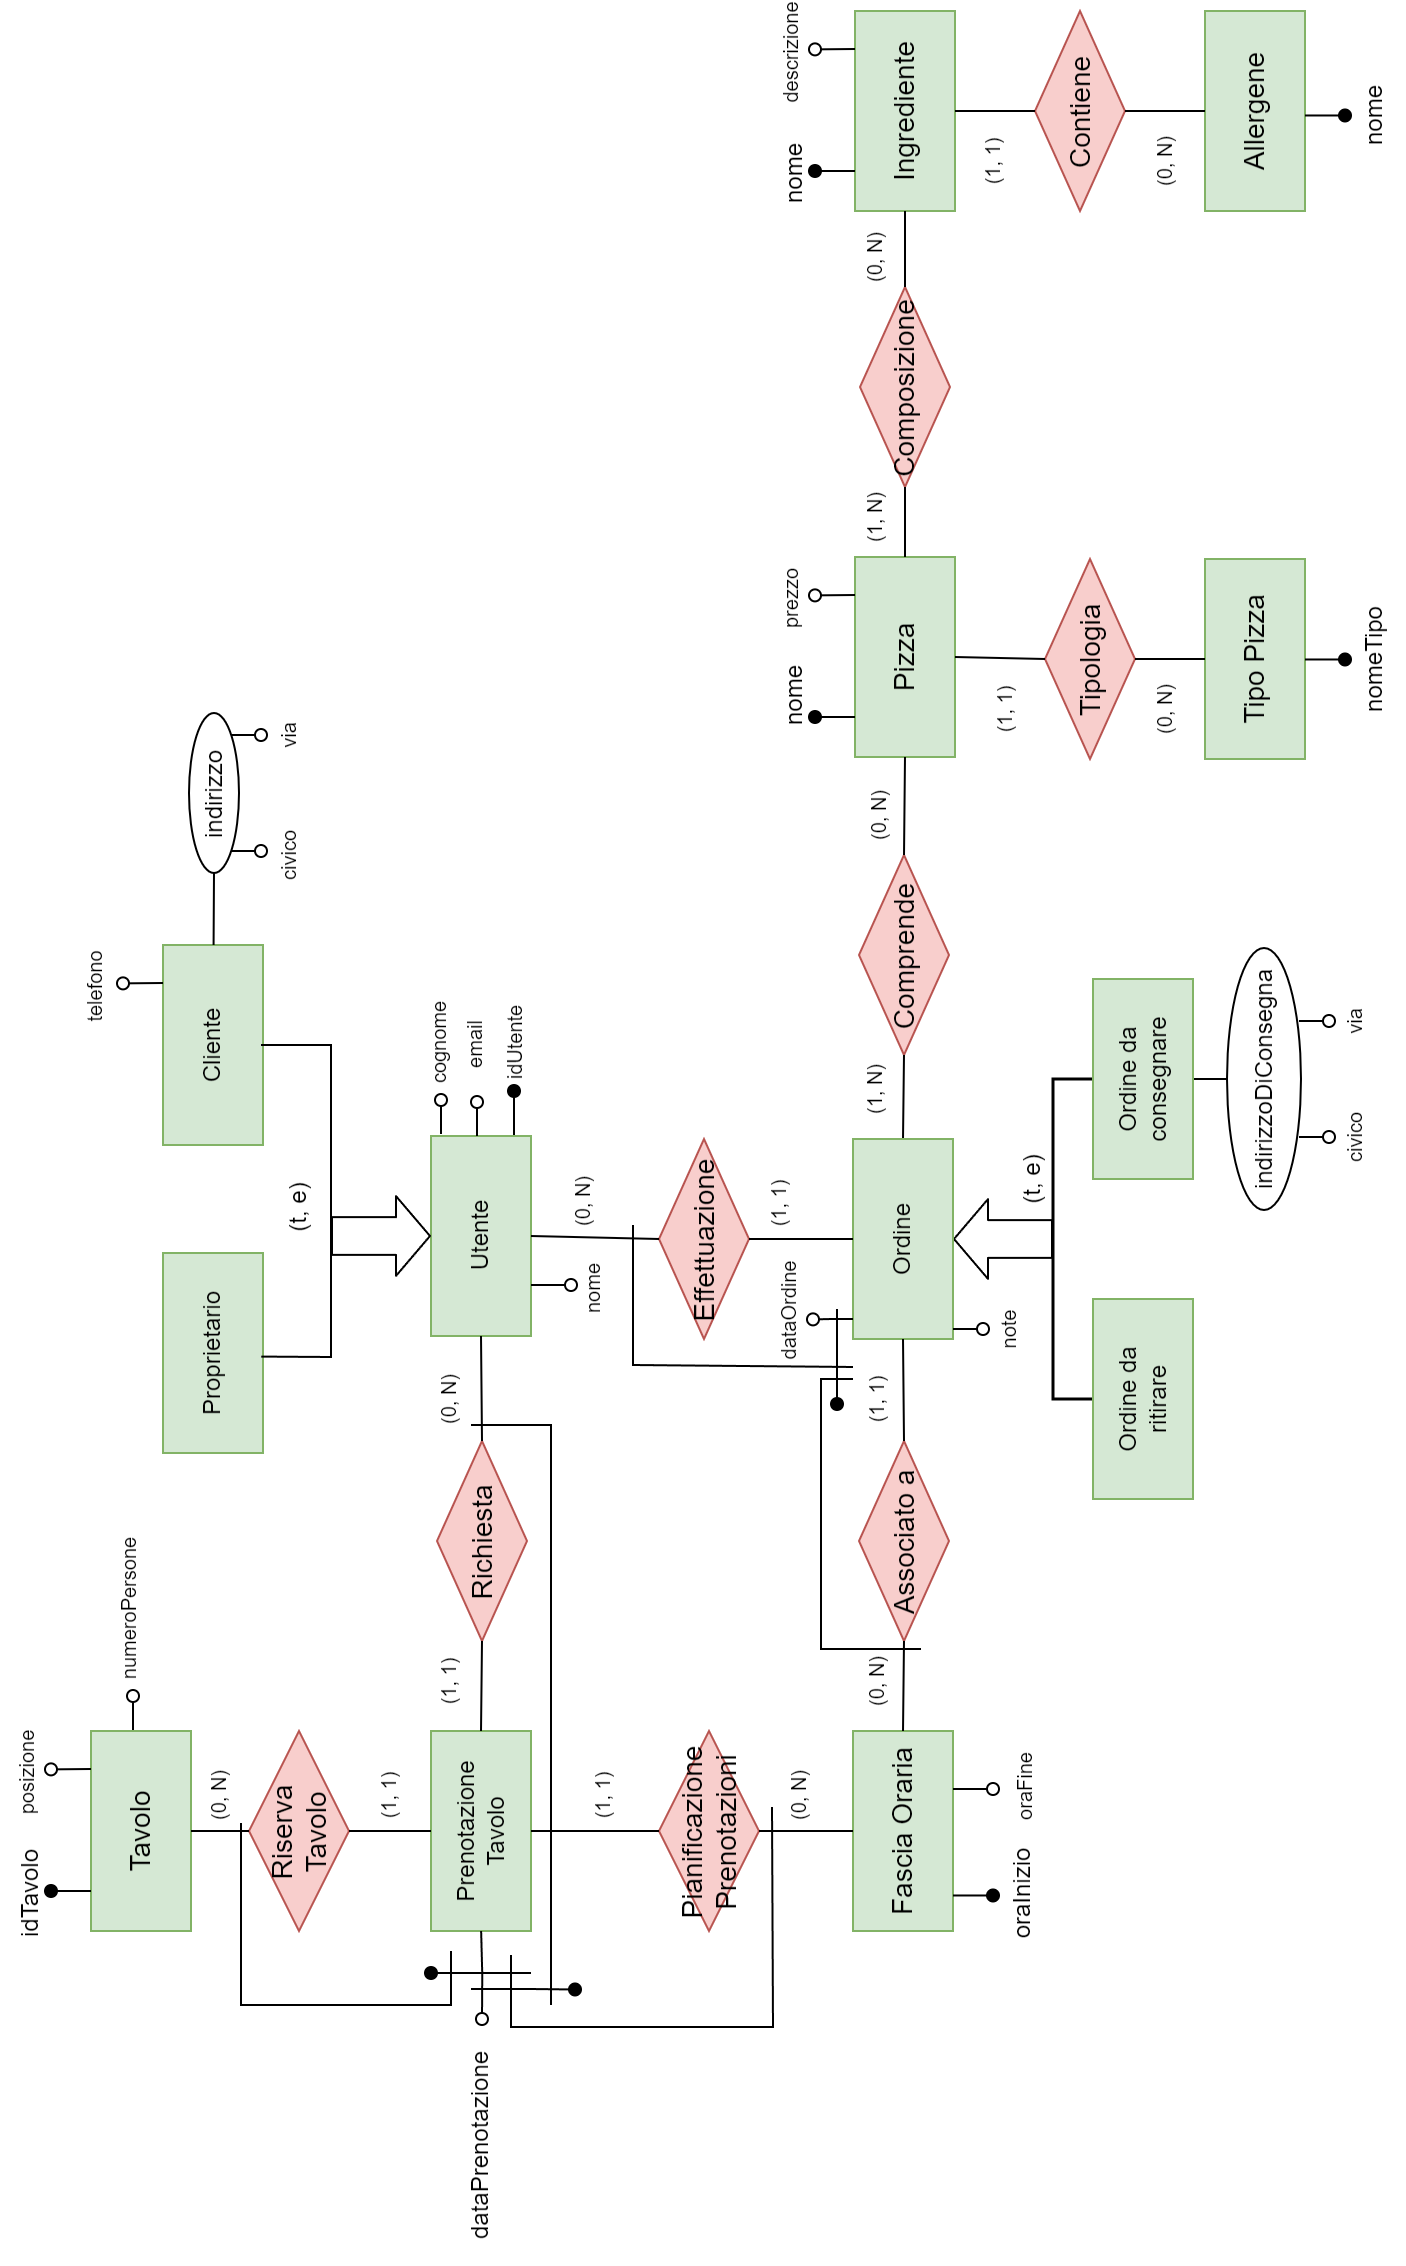
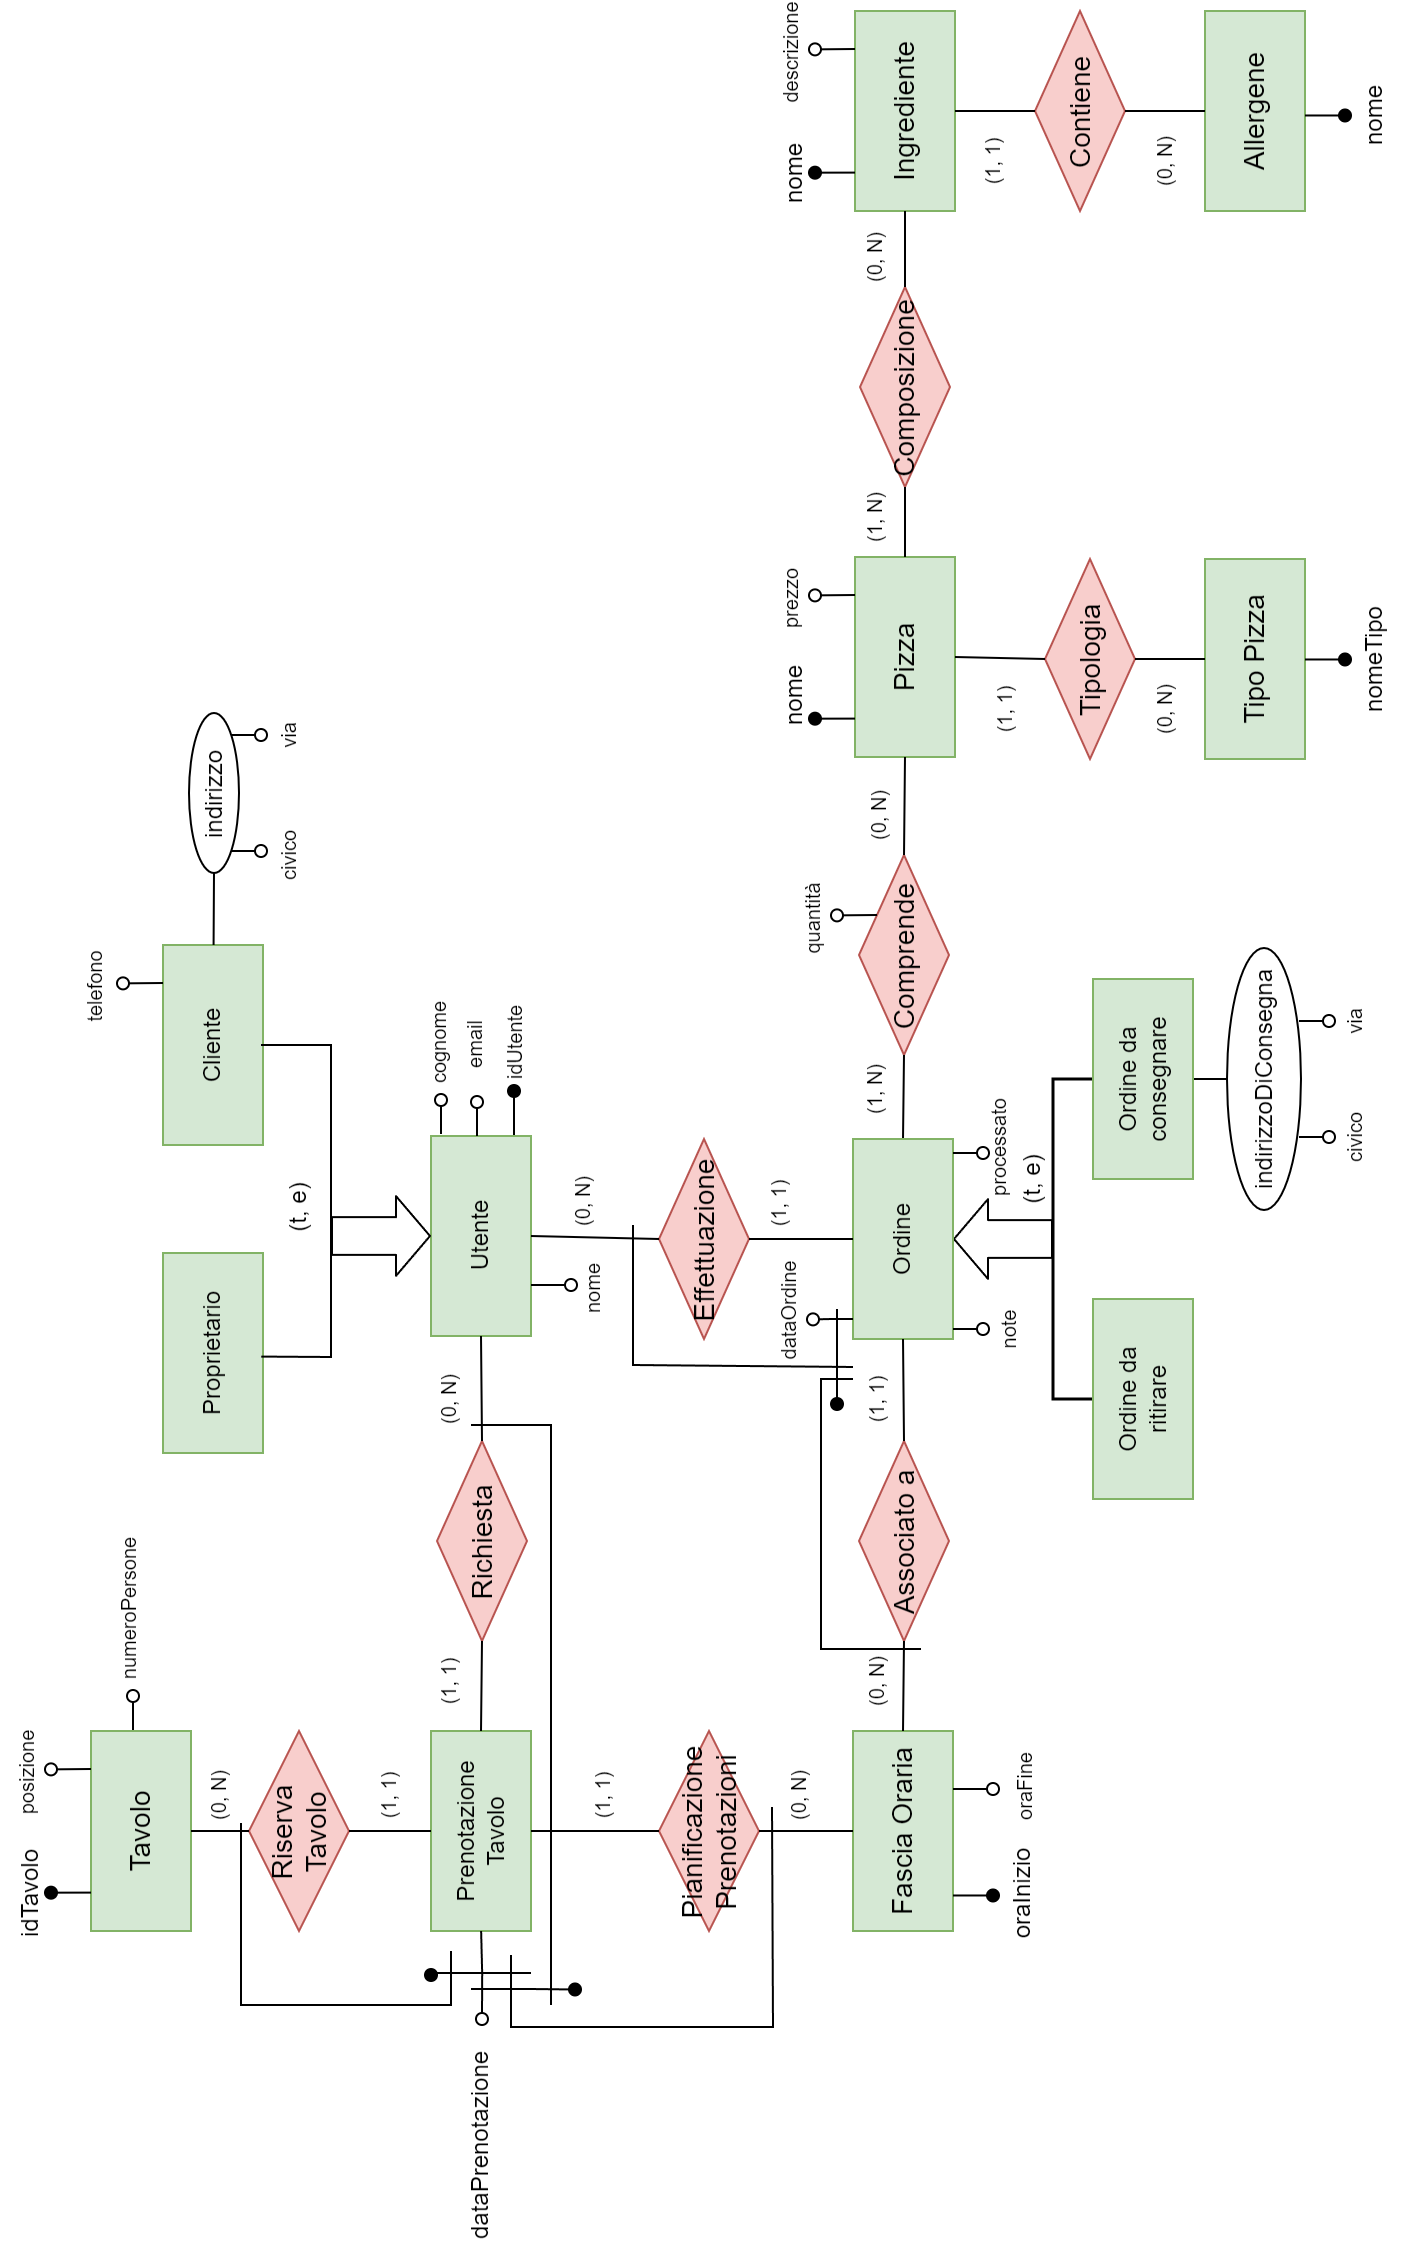
add quantita to comprende + fixed some queries

diff --git a/Second-year/Basi di Dati/main.tex b/Second-year/Basi di Dati/main.tex
@@ -130,8 +130,7 @@ Per ogni pizza, è necessario memorizzare il nome come identificatore
 unico, il tipo, gli ingredienti, gli allergeni e il prezzo. Il
 proprietario avrà la capacità di visualizzare e modificare tutte le
 informazioni relative a ciascuna pizza. Infine, avrà la possibilità
-di consultare una classifica contenente le 5 pizze più vendute e
-meno vendute.
+di consultare la classifica delle pizze più vendute.
 
 \end{quote}
 
@@ -150,6 +149,8 @@ Elenco delle principali azioni richieste:
     \item Visualizzare tutti gli ordini da preparare per una certa fascia oraria e data
     \item Processare un ordine
 \end{enumerate}
+
+TODO: è stato aggiunto quantita a comprende. correggere tutte le immagini e testi
 
 \section{Progettazione Concettuale}
 
@@ -773,11 +774,12 @@ venduta.
 \textcolor{darkBlue}{UNIQUE(IdUtente, DataPrenotazione, OraInizio)} \\
 \textbf{FASCE\_ORARIE}(\underline{OraInizio}, OraFine) \\
 \textbf{UTENTI}(\underline{IdUtente}, Nome, Cognome, Email, Telefono*, NumeroCivico*, Via*, Cliente) \\
+\textcolor{darkBlue}{UNIQUE(Email)} \\
 \textbf{ORDINI}(\underline{IdOrdine}, IdUtente, OraInizio, DataOrdine, Note*, NCivicoDiConsegna*, ViaDiConsegna*, processato) \\
 \textcolor{darkBlue}{FK: OraInizio \textit{REFERENCES} FASCE\_ORARIE} \\
 \textcolor{darkBlue}{FK: IdUtente \textit{REFERENCES} UTENTI} \\
 \textcolor{darkBlue}{UNIQUE(IdUtente, OraInizio, DataOrdine)} \\
-\textbf{COMPRENDE}(\underline{IdOrdine}, \underline{NomePizza}) \\
+\textbf{COMPRENDE}(\underline{IdOrdine}, \underline{NomePizza}, quantita) \\
 \textcolor{darkBlue}{FK: NomePizza \textit{REFERENCES} PIZZE} \\
 \textcolor{darkBlue}{FK: IdOrdine \textit{REFERENCES} ORDINI} \\
 \textbf{PIZZE}(\underline{Nome}, Prezzo, NomeTipo, vendute) \\
@@ -823,14 +825,14 @@ Dopo aver ottenuto l'identificatore della fascia oraria, si può procedere crean
 \\\\
 Si inseriscono all'interno dell'ordine tutte le pizze che ha selezionato l'utente
 \\\\
-\textcolor{darkBlue}{\textbf{INSERT INTO}} comprende (\textcolor{lightPink}{LAST\_INSERT\_ID()}, nomePizza)
-\\\textcolor{darkBlue}{\textbf{VALUES}} (?, ?)
+\textcolor{darkBlue}{\textbf{INSERT INTO}} comprende (\textcolor{lightPink}{LAST\_INSERT\_ID()}, nomePizza, quantita)
+\\\textcolor{darkBlue}{\textbf{VALUES}} (?, ?, ?)
 \\\\
 Infine si aggiornano i contatori delle vendite di ogni pizza
 \\\\
 \textcolor{darkBlue}{\textbf{UPDATE}} pizze
-\\\textcolor{darkBlue}{\textbf{SET}} processato = processato + 1
-\\\textcolor{darkBlue}{\textbf{WHERE}} nomePizza = ?
+\\\textcolor{darkBlue}{\textbf{SET}} vendute = vendute + ?
+\\\textcolor{darkBlue}{\textbf{WHERE}} nome = ?
 
 \paragraph{4 - Prenotazione di un tavolo}
 \hphantom{A}\\    % se no la tabella si sposta sopra il paragrafo
@@ -918,7 +920,6 @@ Si inserisce l'ingrediente con l'allergene selezionato
 
 \paragraph{9 - Visualizzazione degli ordini dei relativi clienti}
 \hphantom{A}\\    % se no la tabella si sposta sopra il paragrafo
-\\
 \textcolor{darkBlue}{\textbf{SELECT}} *
 \\\textcolor{darkBlue}{\textbf{FROM}} ordini
 \\\textcolor{darkBlue}{\textbf{WHERE}} idUtente = ?
@@ -936,7 +937,9 @@ Prima l'utente deve scegliere la fascia oraria
 \textcolor{darkBlue}{\textbf{SELECT}} *
 \\\textcolor{darkBlue}{\textbf{FROM}} fascia\_oraria
 \\\\
-\textcolor{darkBlue}{\textbf{SELECT}} u.nome, u.cognome, u.telefono, o.oraInizio, o.dataOrdine, o.note, o.nCivicoDiConsegna, o.viaDiConsegna, \textcolor{darkBlue}{\textbf{GROUP\_CONCAT}}(p.nome)
+Dopo di che si procede individuando i dettagli dell'ordine e delle pizze ordine
+\\\\
+\textcolor{darkBlue}{\textbf{SELECT}} u.nome, u.cognome, u.telefono, o.idOrdine, o.oraInizio, o.dataOrdine, o.note, o.nCivicoDiConsegna, o.viaDiConsegna, \textcolor{darkBlue}{\textbf{GROUP\_CONCAT}}(p.nome)
 \\\textcolor{darkBlue}{\textbf{FROM}} ordini o
 \\\textcolor{darkBlue}{\textbf{INNER JOIN}} comprende c \textcolor{darkBlue}{\textbf{ON}} o.idOrdine = c.idOrdine
 \\\textcolor{darkBlue}{\textbf{INNER JOIN}} pizze p \textcolor{darkBlue}{\textbf{ON}} c.nomePizza = p.nome
@@ -944,7 +947,13 @@ Prima l'utente deve scegliere la fascia oraria
 \\\textcolor{darkBlue}{\textbf{WHERE}} oraInizio = ?
 \\\textcolor{darkBlue}{\textbf{AND}} dataOrdine = ?
 \\\textcolor{darkBlue}{\textbf{AND}} o.processato = 0
-TODO: controllare questa query che sia giusta
+\\\\
+Infine si legge la quantità di pizze da preparare per l'ordine desiderato
+\\\\
+\textcolor{darkBlue}{\textbf{SELECT}} quantita
+\\\textcolor{darkBlue}{\textbf{FROM}} comprende
+\\\textcolor{darkBlue}{\textbf{WHERE}} idOrdine = ?
+\\\textcolor{darkBlue}{\textbf{AND}} nomePizza = ?
 
 \paragraph{12 - Processare un ordine}
 \hphantom{A}\\    % se no la tabella si sposta sopra il paragrafo
